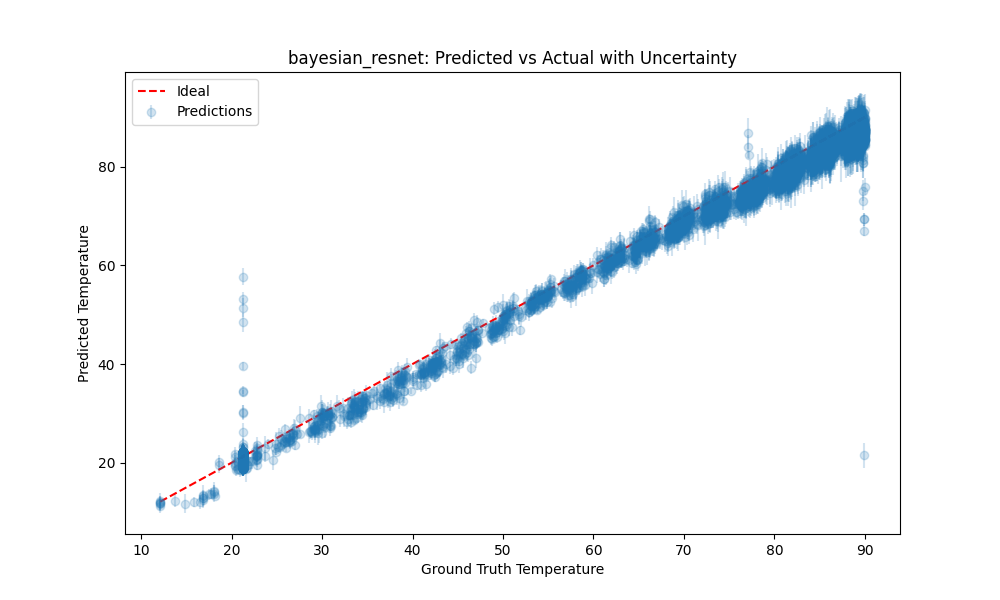
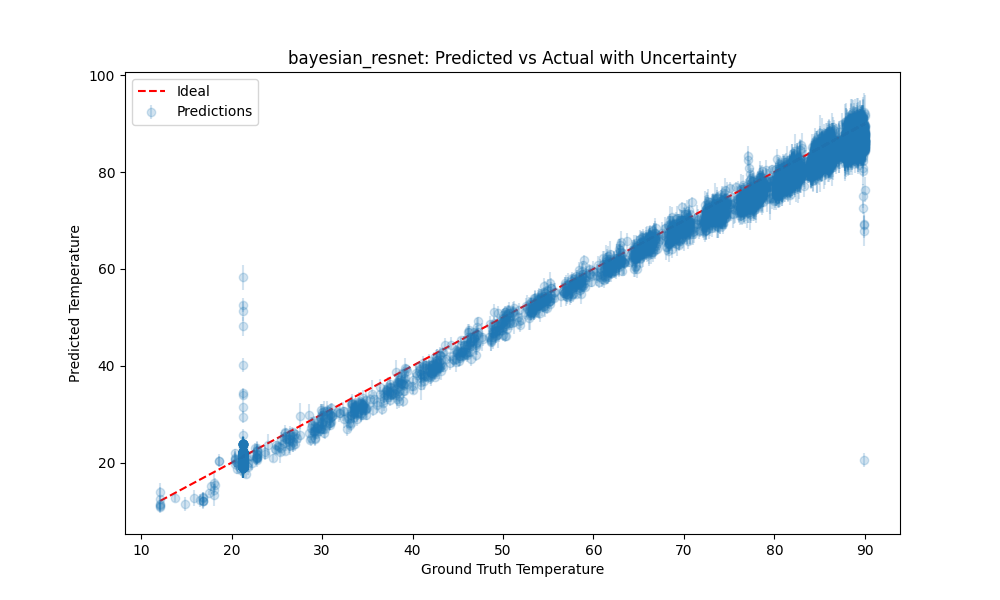
Update evaluation metrics and results for best model, including new metrics and visualizations

diff --git a/evaluation/comprehensive_uncertainty_eval.py b/evaluation/comprehensive_uncertainty_eval.py
@@ -191,7 +191,8 @@ def evaluate_model(model_name, checkpoint_path, data_dir, batch_size=32, num_sam
                         out = out[:, -1, :, :]
                     
                     if out.dim() == 3: # (Batch, H, W)
-                        out = out.mean(dim=[1, 2])
+                        # For peak temperature comparison, take max
+                        out = torch.amax(out, dim=[1, 2])
                     
                     # Final check for sequence of scalars (Batch, Time)
                     if out.dim() > 1 and out.shape[1] > 1:
@@ -211,7 +212,8 @@ def evaluate_model(model_name, checkpoint_path, data_dir, batch_size=32, num_sam
                         out = out[:, -1, :, :]
                     
                     if out.dim() == 3: # (Batch, H, W)
-                        out = out.mean(dim=[1, 2])
+                        # For peak temperature comparison, take max
+                        out = torch.amax(out, dim=[1, 2])
                     
                     # Final check for sequence of scalars (Batch, Time)
                     if out.dim() > 1 and out.shape[1] > 1:

diff --git a/results/tables/uncertainty_results.tex b/results/tables/uncertainty_results.tex
@@ -4,9 +4,9 @@
 \toprule
 Display Name & MSE & MAE & RMSE & NLL & PICP_95 & MPIW_95 \\
 \midrule
-Bayesian CNNLSTM & 3.3966 & 0.8159 & 1.8430 & 2.0495 & 0.9787 & 6.6581 \\
-Bayesian Head & 5.2077 & 1.6217 & 2.2820 & 2.7468 & 0.8768 & 7.0931 \\
-Bayesian Spatial Convection & 940.5295 & 29.7529 & 30.6681 & 96.6346 & 0.0221 & 11.0818 \\
+Bayesian CNNLSTM & 3.6117 & 0.8860 & 1.9004 & 2.3800 & 0.9657 & 6.5968 \\
+Bayesian Head & 5.6324 & 1.7042 & 2.3733 & 2.5033 & 0.8739 & 6.8650 \\
+Bayesian Spatial Convection & 940.8533 & 29.7477 & 30.6733 & 88.4149 & 0.0241 & 11.7415 \\
 \bottomrule
 \end{tabular}
 \end{table}

diff --git a/results/tables/other_results.tex b/results/tables/other_results.tex
@@ -5,6 +5,7 @@
 Display Name & MSE & MAE & RMSE & NLL & PICP_95 & MPIW_95 \\
 \midrule
 BayesianCNNLSTM & 889.0358 & 28.5441 & 29.8167 & 29.0335 & 0.0300 & 16.2514 \\
+best_model & 4550.4546 & 60.0123 & 67.4571 & NaN & 0.0000 & 0.0000 \\
 \bottomrule
 \end{tabular}
 \end{table}
